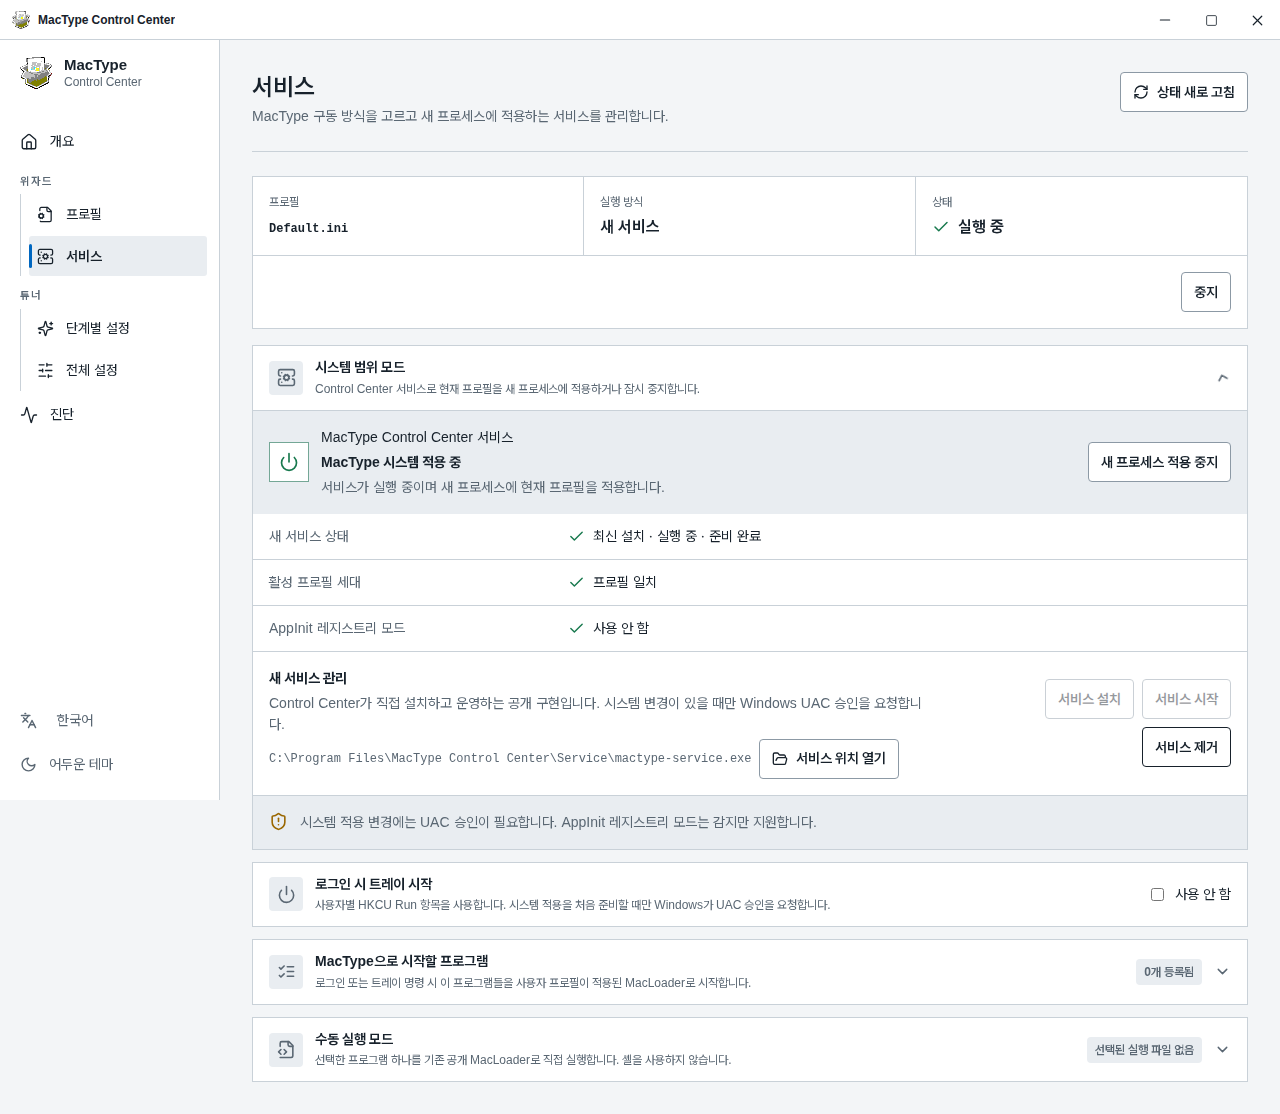
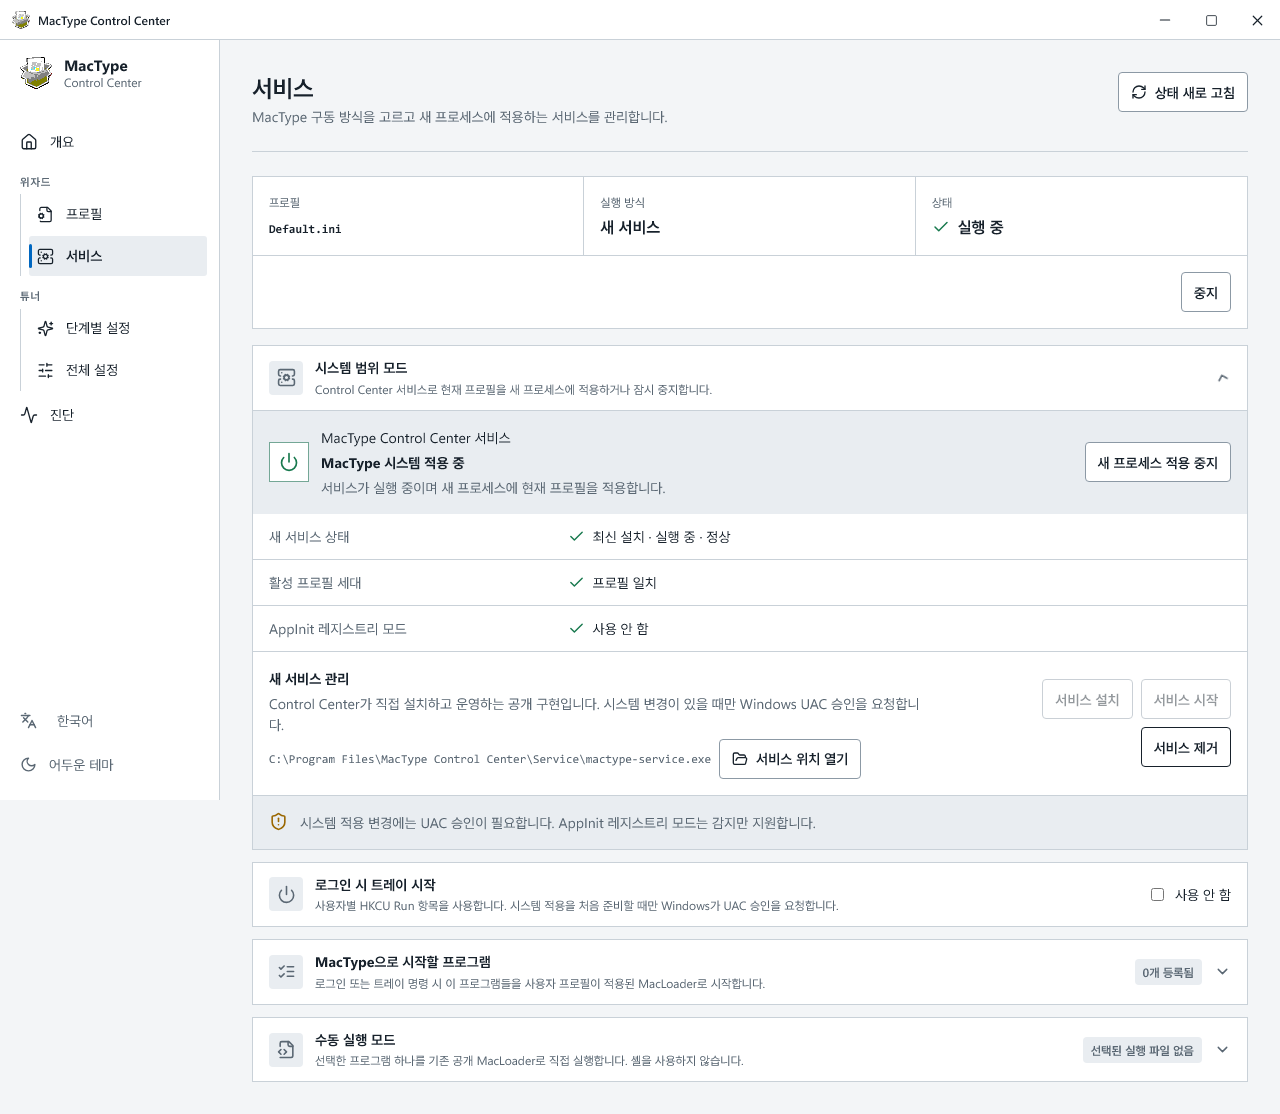
fix(i18n): describe healthy service state

diff --git a/tests/frontend-gallery/gallery.spec.ts b/tests/frontend-gallery/gallery.spec.ts
@@ -1036,7 +1036,7 @@ test("a running legacy service is never claimed as verified system application",
   const openService = page.locator('[data-service-backend="open-source"]');
   await expect(openService).toBeVisible();
   await expect(openService).toContainText("MacType Control Center 서비스");
-  await expect(openService).toContainText("준비 완료");
+  await expect(openService).toContainText("정상");
   await expect(page.getByText("MacType 시스템 적용 중", { exact: true })).toHaveCount(0);
   await expect(openService.locator('[data-state="running-unverified"]')).toBeVisible();
 
@@ -1248,7 +1248,7 @@ test("the service page keeps its normal state to one summary and one action", as
   await expect(summary.getByRole("button", { name: "Stop" })).toBeEnabled();
   await expect(summary.getByRole("button")).toHaveCount(1);
   await expect(page.getByRole("heading", { name: "System-wide modes" })).toBeVisible();
-  await expect(page.locator('details.service-row[data-kind="system"]')).toContainText("Current installation · Running · Ready");
+  await expect(page.locator('details.service-row[data-kind="system"]')).toContainText("Current installation · Running · Healthy");
   await expect(page.getByRole("button", { name: "Remove service" })).toBeHidden();
   await expect(page.locator("details.service-row[open]")).toHaveCount(0);
 });

diff --git a/doc/GEMINI_LOCALIZATION_EXPERIMENT.md b/doc/GEMINI_LOCALIZATION_EXPERIMENT.md
@@ -81,11 +81,11 @@ thinking을 올릴 이유가 있는 경우는 따로 있다.
 
 ## 적용 범위
 
-- 한국어·영어: 자연스러움 수정 3개와 정책 문구 수정 14개
+- 한국어·영어: 자연스러움 수정 4개와 정책 문구 수정 14개
 - 중국어 간체·번체, 일본어, 프랑스어, 독일어, 스페인어, 포르투갈어, 아랍어:
-  같은 14개 정책 문구
+  같은 14개 정책 문구와 정상 상태 배지 1개
 - 카탈로그 전체 571개를 자동 재작성하지 않았다. 변경이 필요한 표본만 다뤘다.
 
-PR 갤러리는 1280px 데스크톱 앱 화면의 준비 완료, 성능 저하, 마이그레이션 확인
+PR 갤러리는 1280px 데스크톱 앱 화면의 정상 상태, 성능 저하, 마이그레이션 확인
 상태를 전후로 비교한다. 휴대폰에서는 PR 본문의 세로형 섹션을 넘겨 보거나 원본
 이미지 링크를 열어 확대할 수 있게 구성한다.
